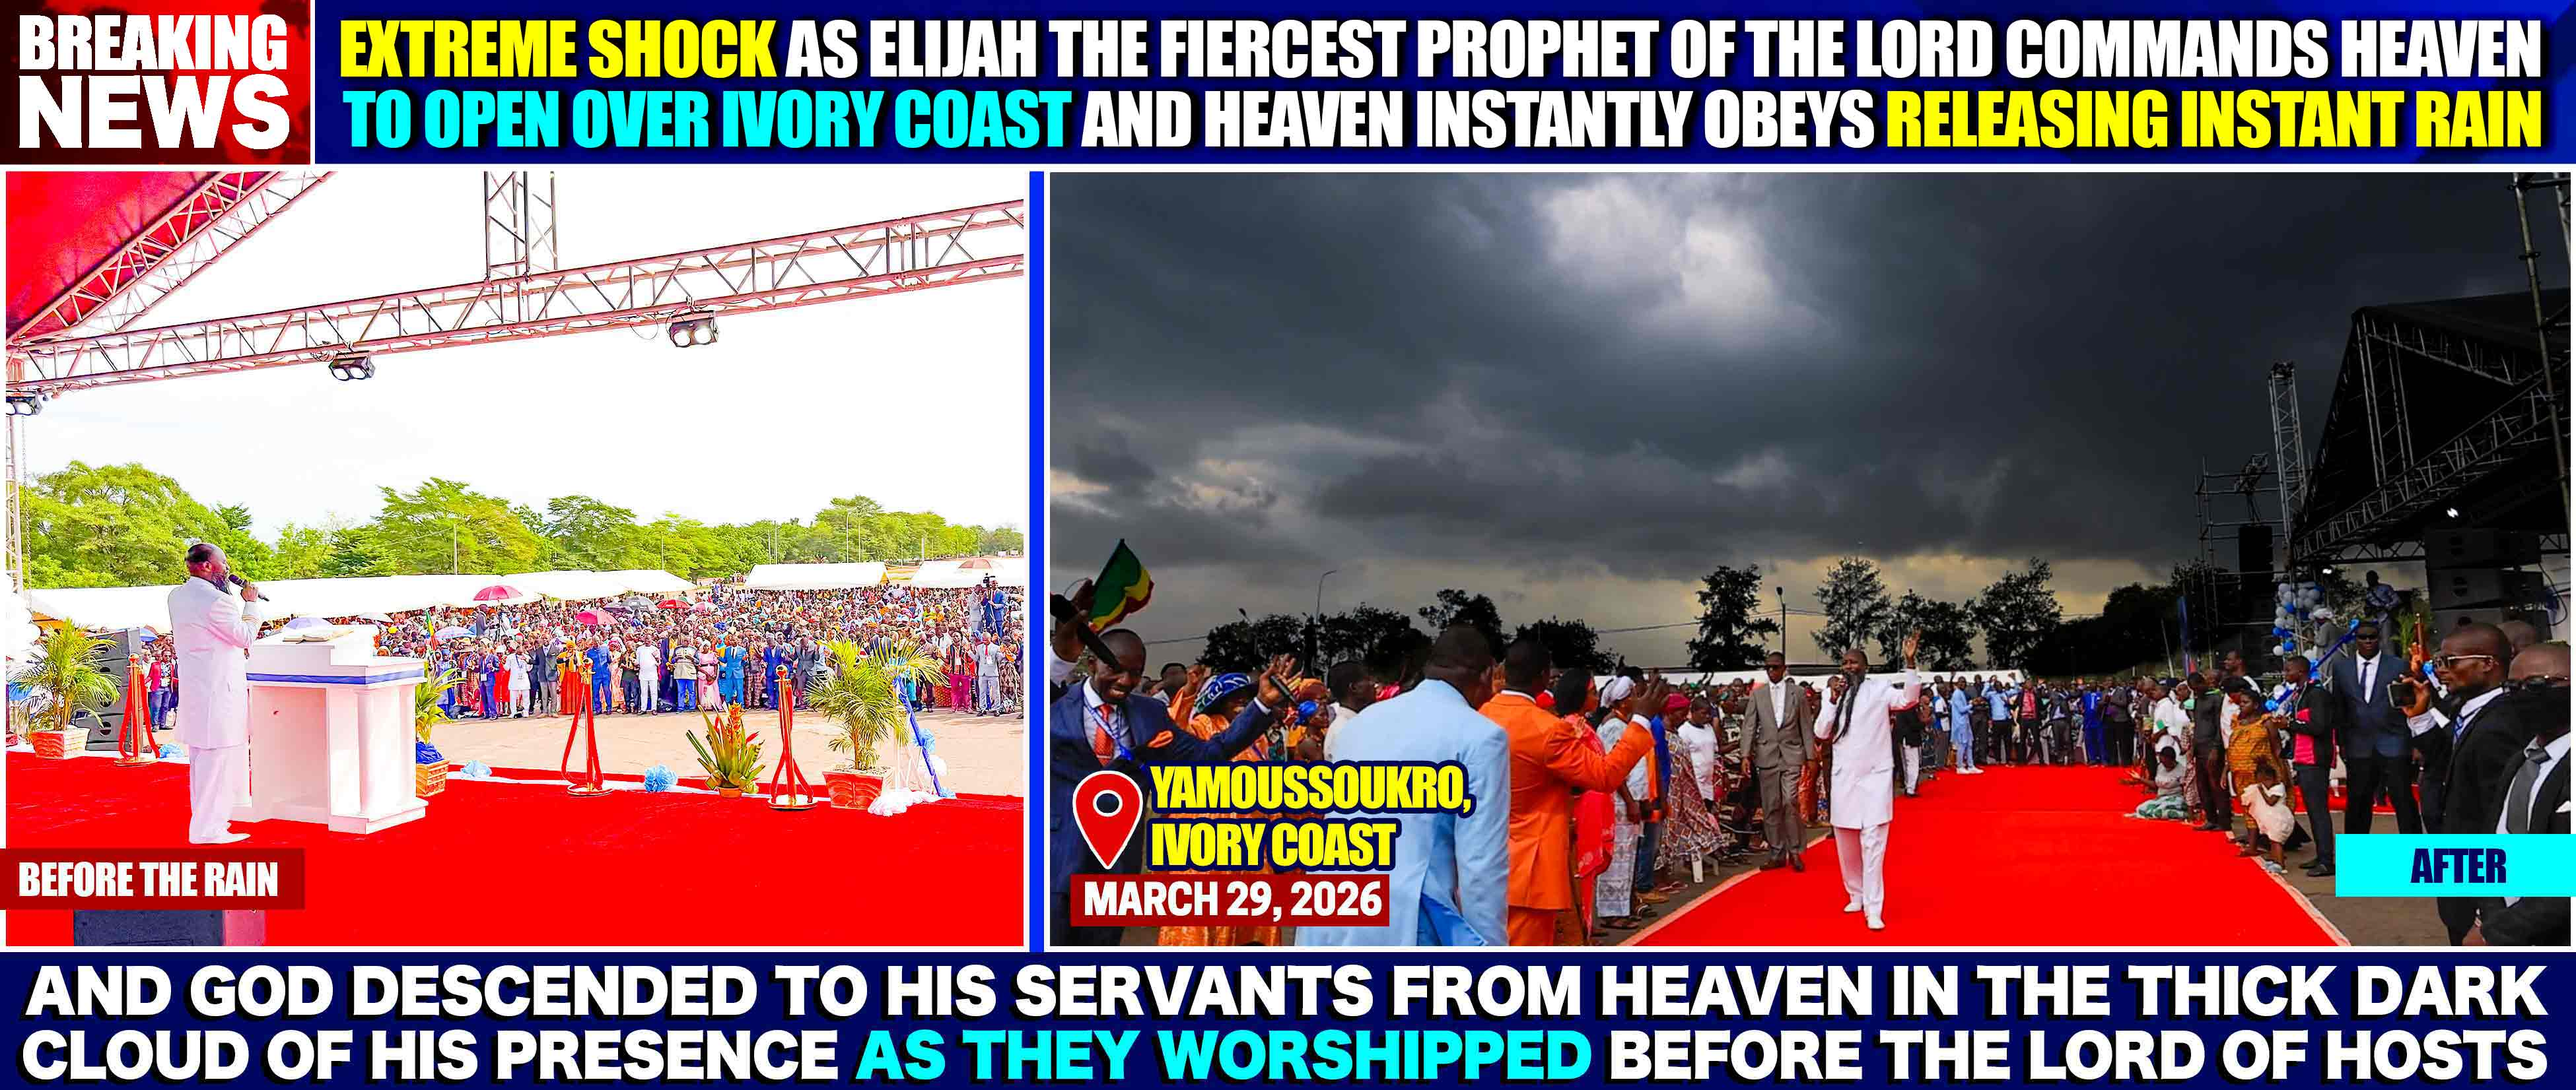
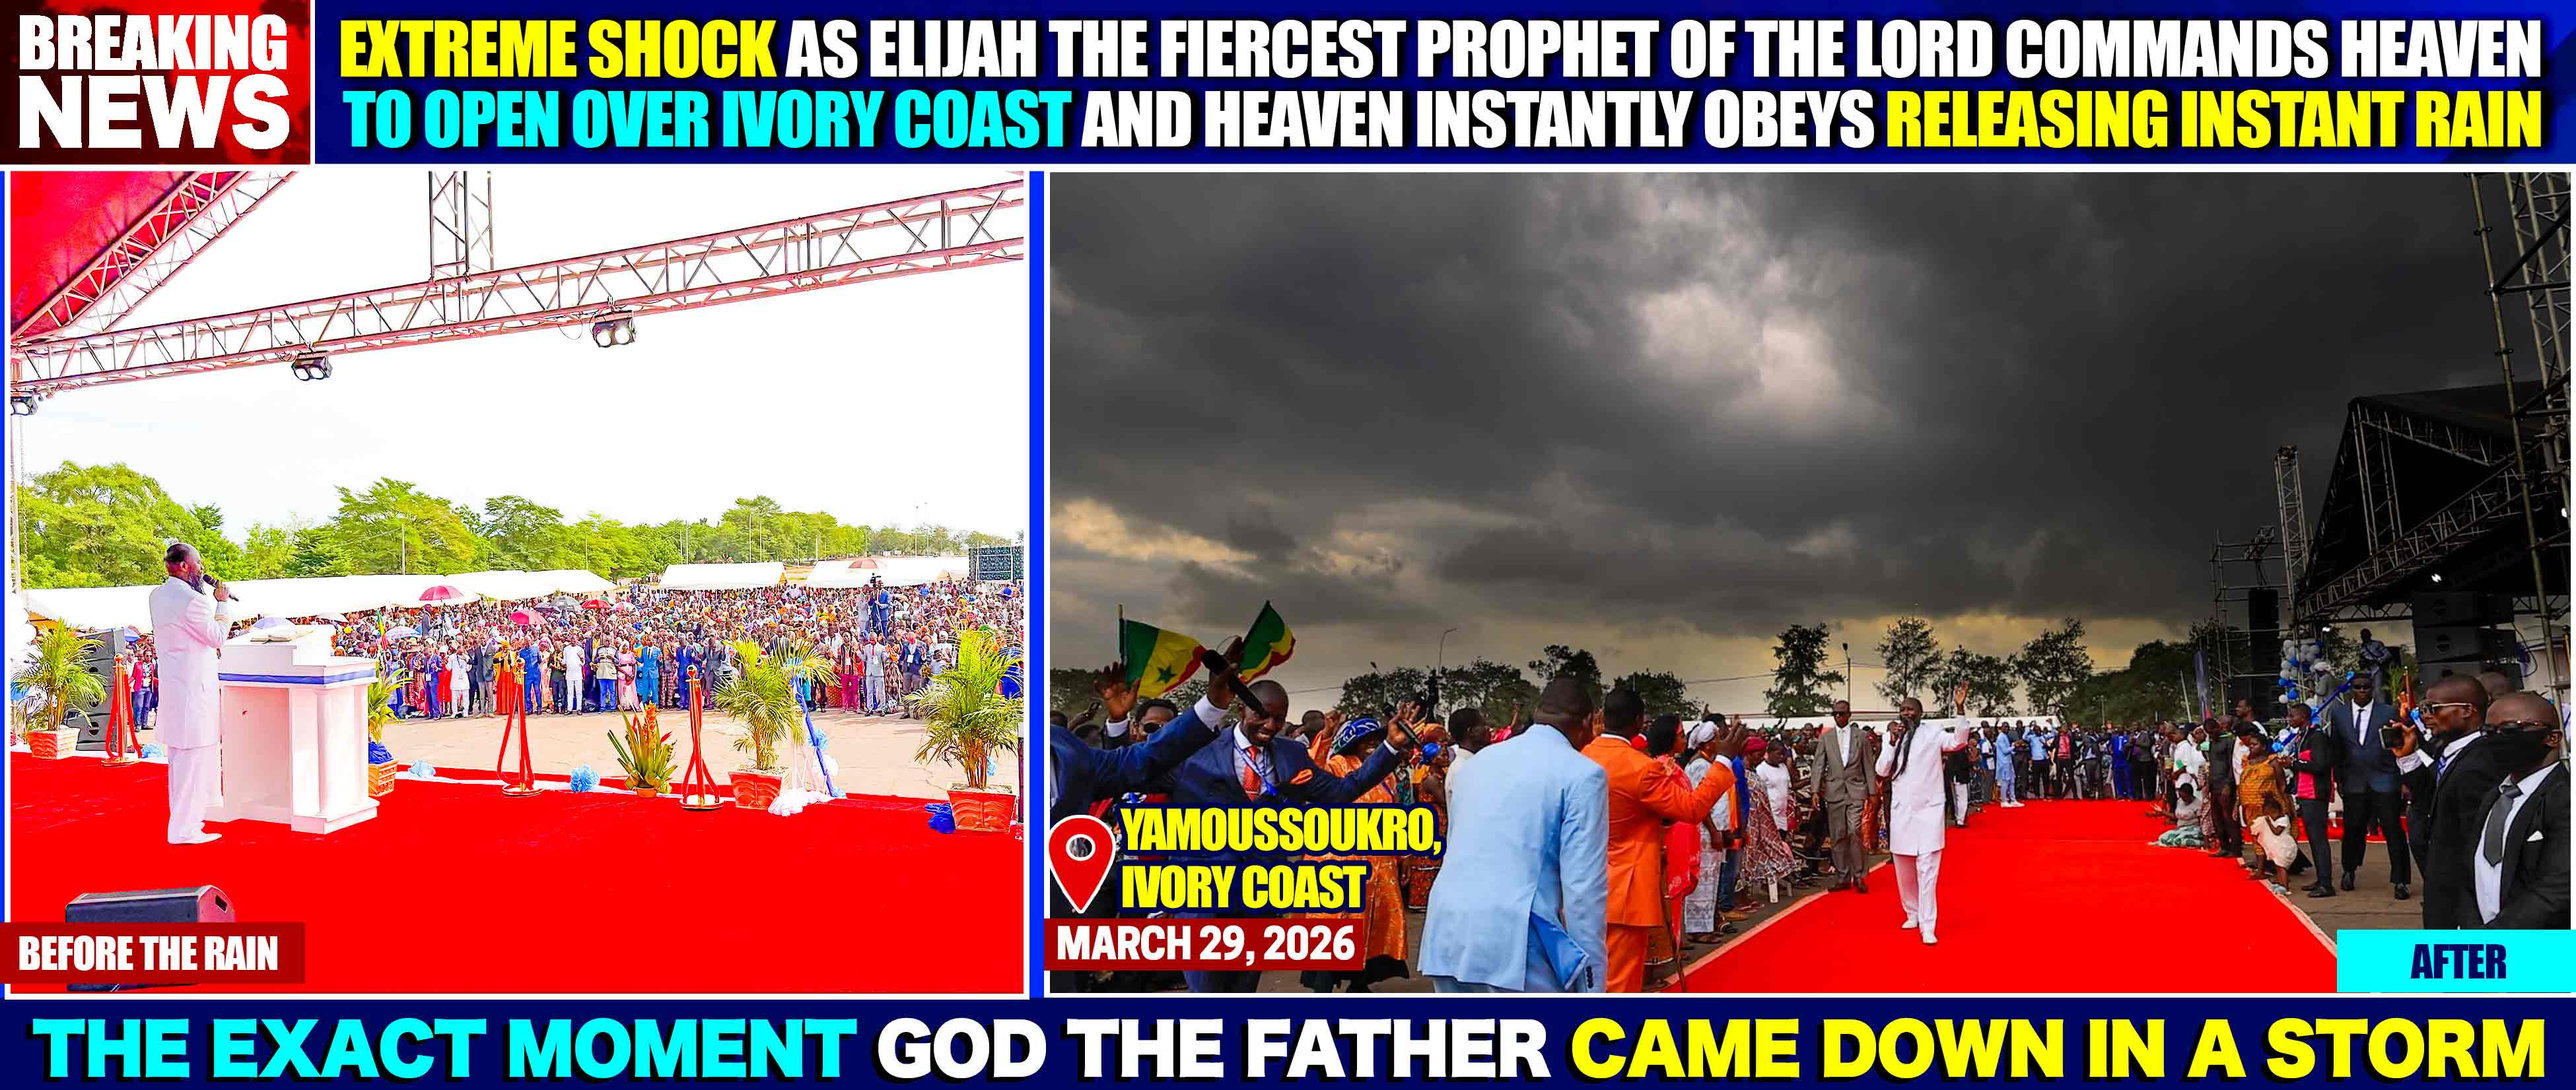
first commit

diff --git a/index.html b/index.html
@@ -12,11 +12,9 @@
 
 
 
-<img class="slideshow" src= "https://pub-9f92551086574e82abebdc7b9c83cf92.r2.dev/Abidjan%202026/Healing%20Service/1.%20Rain/1.%20Exact%20moment/5.-Exact-Moment-GOD-came-down-in-a-storm.jpg" alt="Unstable internet, please refresh">
-<img class="slideshow" src= "https://pub-9f92551086574e82abebdc7b9c83cf92.r2.dev/Abidjan%202026/Healing%20Service/1.%20Rain/1.%20Exact%20moment/3.-Exact-Moment-GOD-came-down-in-a-storm.jpg" alt="Unstable internet, please refresh">
-
-<img class="slideshow" src= "https://pub-9f92551086574e82abebdc7b9c83cf92.r2.dev/Abidjan%202026/Healing%20Service/1.%20Rain/2.%20Cloud/CLoud-1.jpg" alt="Unstable internet, please refresh">
-
+<img class="slideshow" src= "https://pub-9f92551086574e82abebdc7b9c83cf92.r2.dev/Abidjan%202026/Healing%20Service/1.%20Rain/1.%20Exact%20moment/New/CLoud-1.jpg" alt="Unstable internet, please refresh">
+<img class="slideshow" src= "https://pub-9f92551086574e82abebdc7b9c83cf92.r2.dev/Abidjan%202026/Healing%20Service/1.%20Rain/1.%20Exact%20moment/New/CLoud-2.jpg" alt="Unstable internet, please refresh">
+<img class="slideshow" src= "https://pub-9f92551086574e82abebdc7b9c83cf92.r2.dev/Abidjan%202026/Healing%20Service/1.%20Rain/1.%20Exact%20moment/New/CLoud-3.jpg" alt="Unstable internet, please refresh">
 
         <!-- Add more images here -->
     </div>
